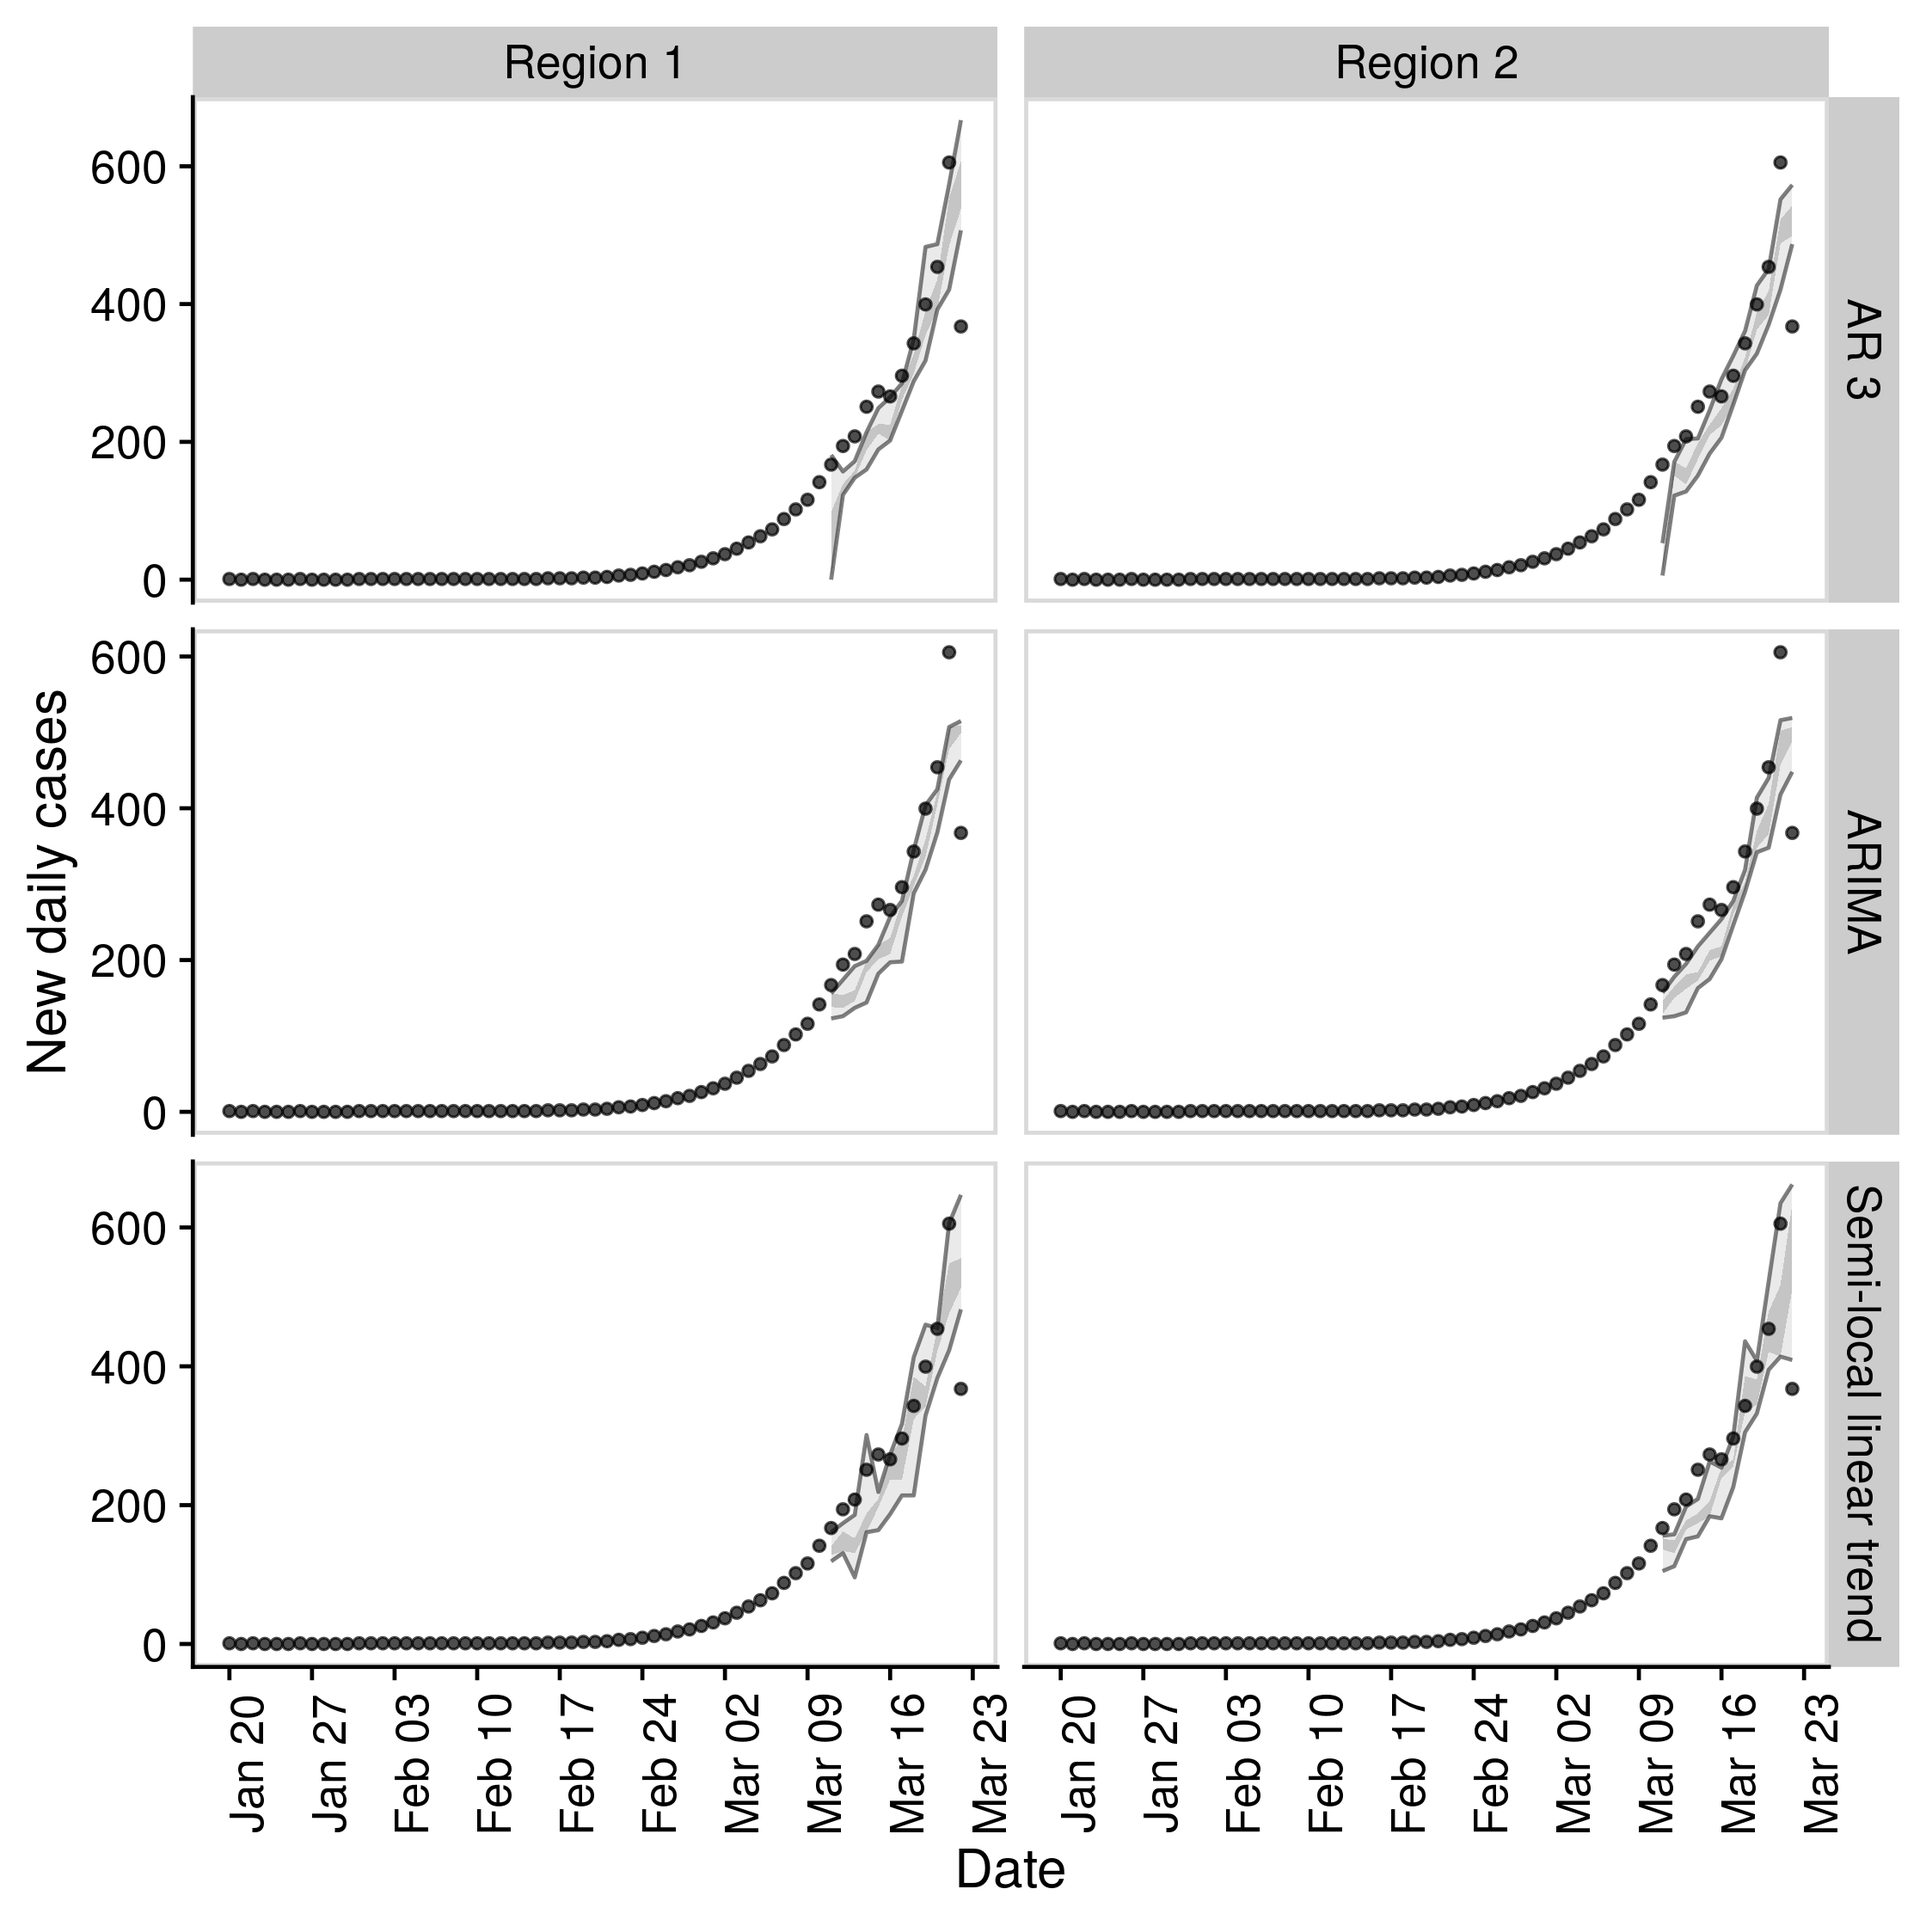
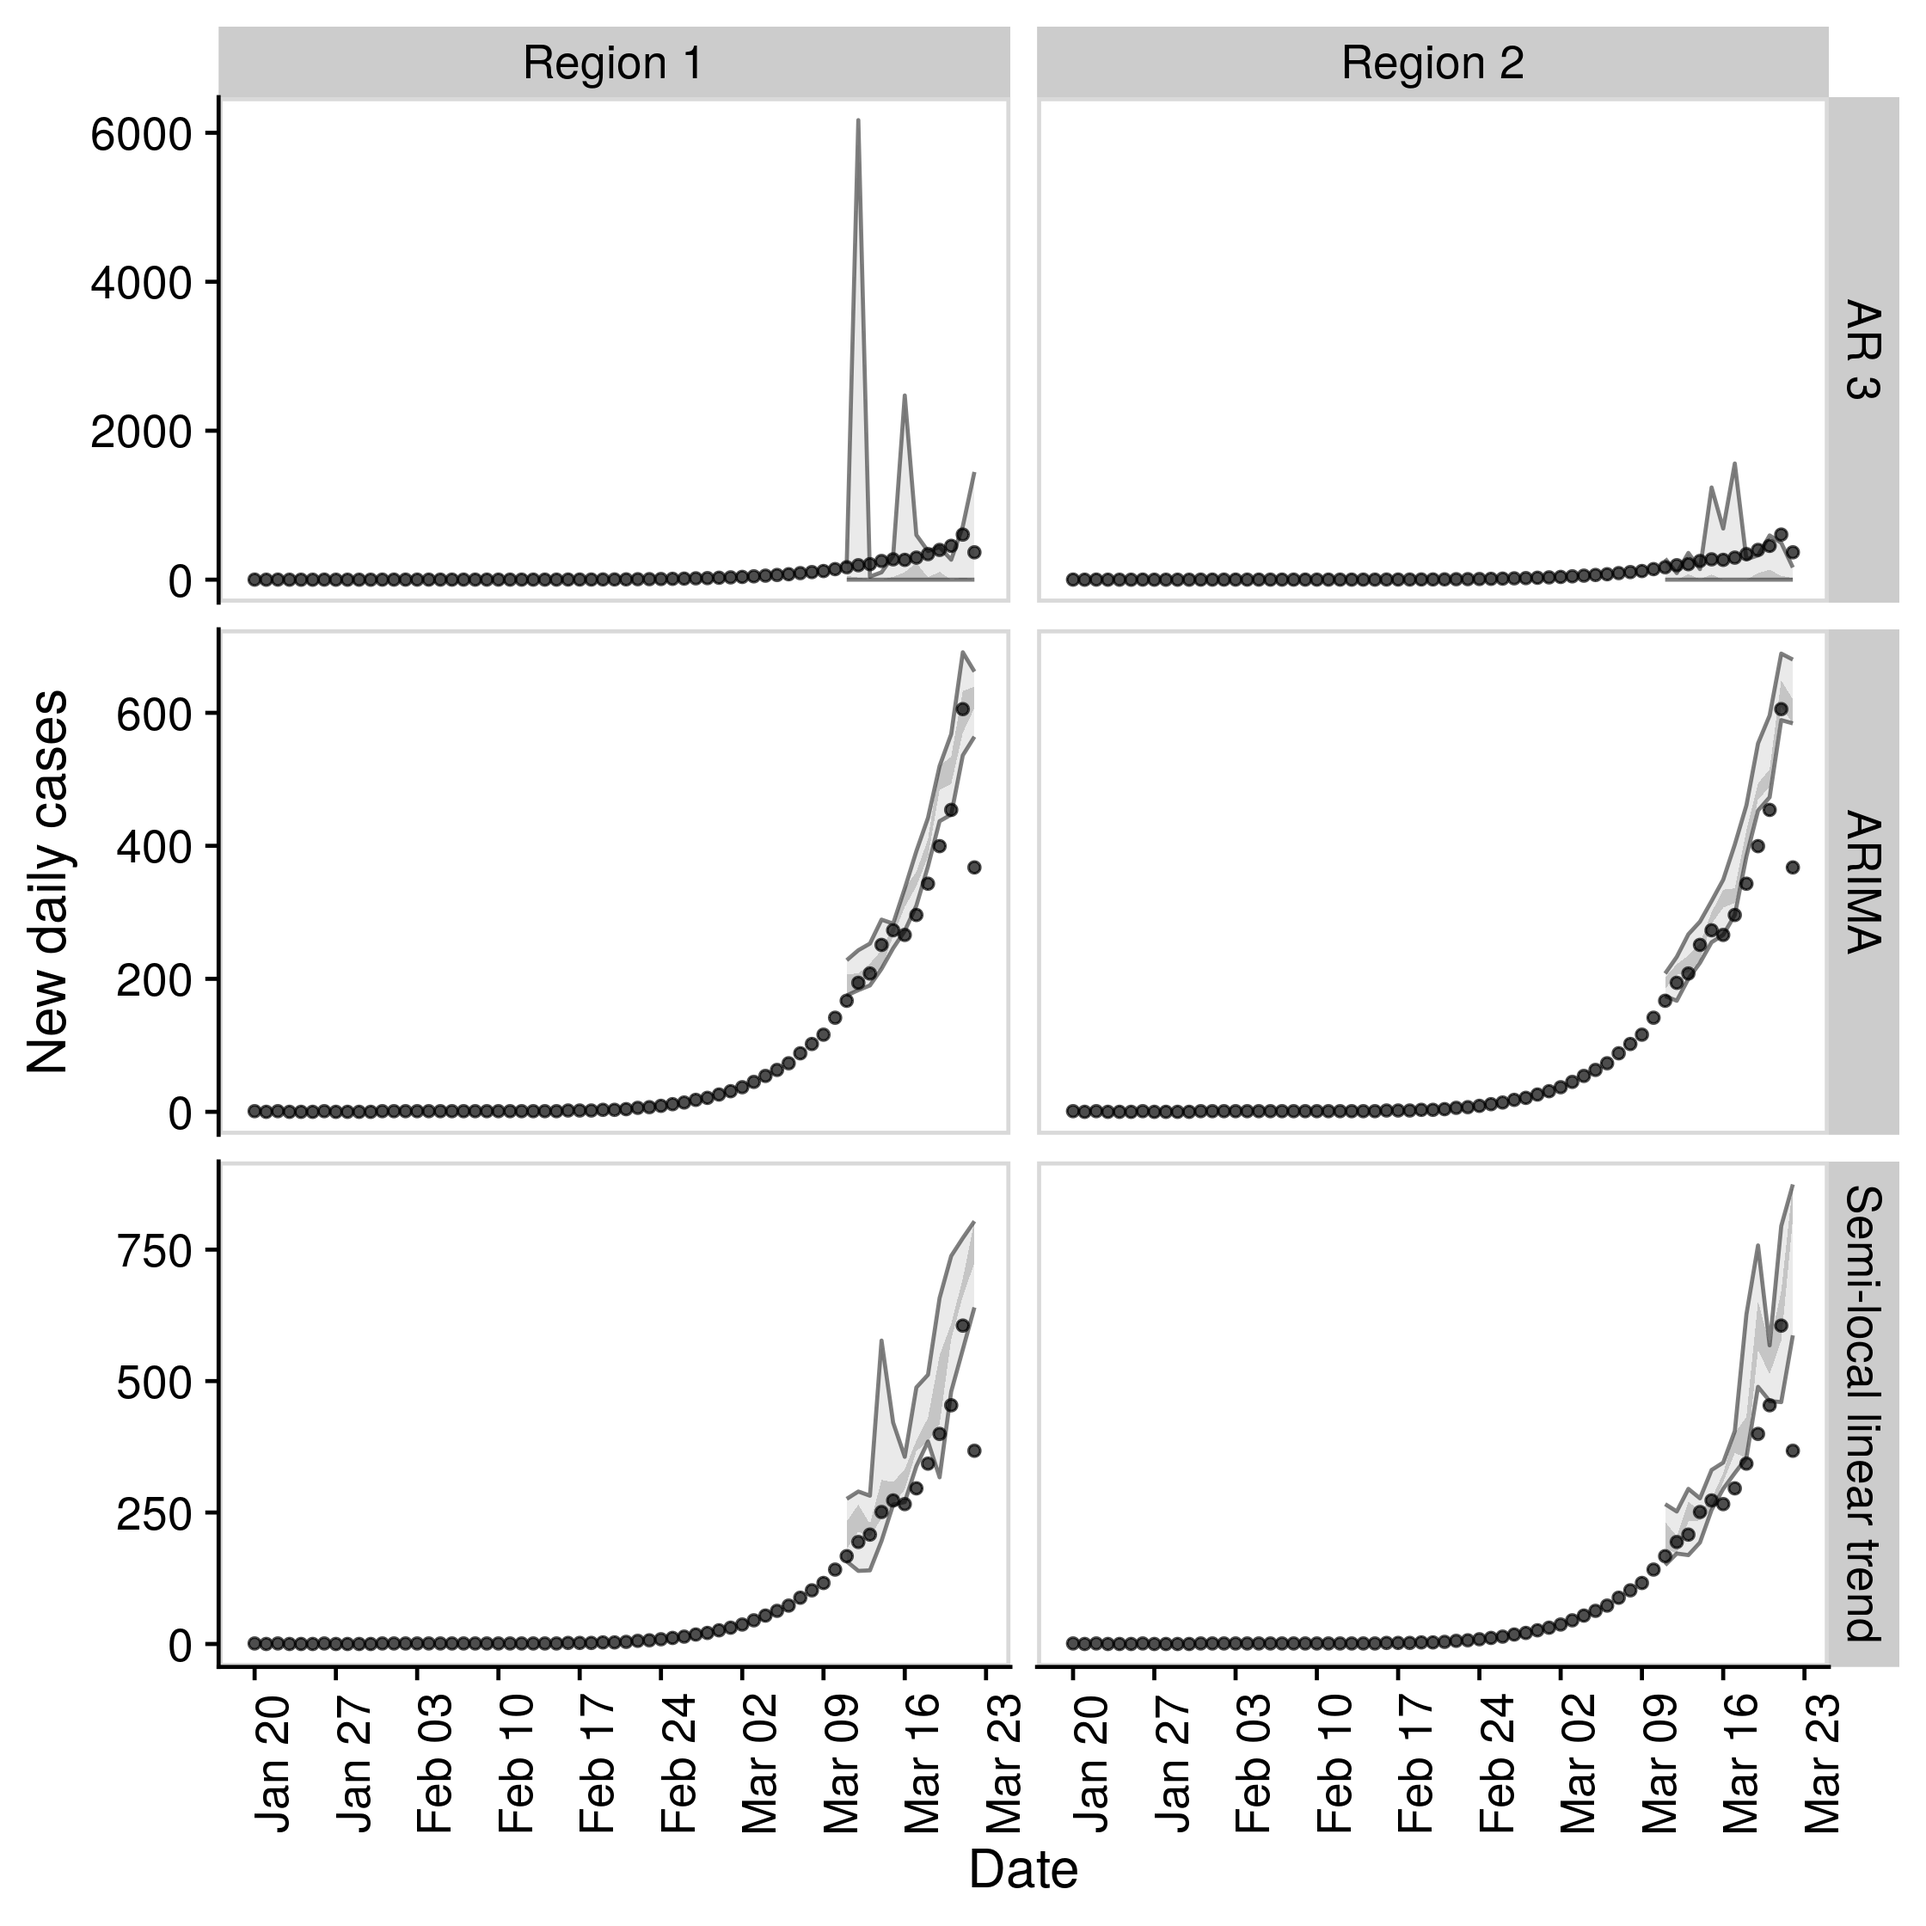
update readme

diff --git a/README.md b/README.md
@@ -2,14 +2,12 @@
 # EpiSoon
 
 [![DOI](https://zenodo.org/badge/248311916.svg)](https://zenodo.org/badge/latestdoi/248311916)
+[![R build
+status](https://github.com/epiforecasts/EpiSoon/workflows/R-CMD-check/badge.svg)](https://github.com/epiforecasts/EpiSoon)
 [![Build
 Status](https://travis-ci.com/epiforecasts/EpiSoon.svg?branch=master)](https://travis-ci.com/epiforecasts/EpiSoon)
 
-*Warning: This package is a work in progress and is currently developed
-solely with the COVID-19 outbreak in mind. Breaking changes may occur
-and the authors cannot guarantee support.*
-
-**Aim:** To forecast the time-varying reproduction number and using this
+**Aim:** To forecast the time-varying reproduction number and use this
 to forecast reported case counts.
 
 ## Installation
@@ -85,72 +83,72 @@ forecasts <- EpiSoon::compare_timeseries(obs_rts, obs_cases, models,
 
 forecasts
 #> $forecast_rts
-#> # A tibble: 784 x 12
-#>    timeseries model forecast_date date       horizon median  mean     sd
-#>    <chr>      <chr> <chr>         <date>       <int>  <dbl> <dbl>  <dbl>
-#>  1 Region 1   AR 3  2020-03-05    2020-03-06       1   2.20  2.20 0.0422
-#>  2 Region 1   AR 3  2020-03-05    2020-03-07       2   2.15  2.15 0.0382
-#>  3 Region 1   AR 3  2020-03-05    2020-03-08       3   2.09  2.08 0.0611
-#>  4 Region 1   AR 3  2020-03-05    2020-03-09       4   2.01  2.01 0.0541
-#>  5 Region 1   AR 3  2020-03-05    2020-03-10       5   1.95  1.95 0.0331
-#>  6 Region 1   AR 3  2020-03-05    2020-03-11       6   1.91  1.91 0.0444
-#>  7 Region 1   AR 3  2020-03-05    2020-03-12       7   1.85  1.85 0.0375
-#>  8 Region 1   AR 3  2020-03-06    2020-03-07       1   2.09  2.10 0.0364
-#>  9 Region 1   AR 3  2020-03-06    2020-03-08       2   2.02  2.02 0.0158
-#> 10 Region 1   AR 3  2020-03-06    2020-03-09       3   1.94  1.94 0.0261
-#> # … with 774 more rows, and 4 more variables: bottom <dbl>, lower <dbl>,
-#> #   upper <dbl>, top <dbl>
+#> # A tibble: 798 x 12
+#>    timeseries model forecast_date date       horizon median  mean    sd bottom
+#>    <chr>      <chr> <chr>         <date>       <int>  <dbl> <dbl> <dbl>  <dbl>
+#>  1 Region 1   AR 3  2020-03-04    2020-03-05       1  0     1.08  2.15       0
+#>  2 Region 1   AR 3  2020-03-04    2020-03-06       2  0.203 0.955 1.59       0
+#>  3 Region 1   AR 3  2020-03-04    2020-03-07       3  0.232 0.790 1.26       0
+#>  4 Region 1   AR 3  2020-03-04    2020-03-08       4  0.259 1.70  2.69       0
+#>  5 Region 1   AR 3  2020-03-04    2020-03-09       5  0.238 1.40  2.35       0
+#>  6 Region 1   AR 3  2020-03-04    2020-03-10       6  0.862 0.830 0.880      0
+#>  7 Region 1   AR 3  2020-03-04    2020-03-11       7  1.22  1.92  2.95       0
+#>  8 Region 1   AR 3  2020-03-05    2020-03-06       1  0.378 1.18  1.88       0
+#>  9 Region 1   AR 3  2020-03-05    2020-03-07       2  0.536 1.87  3.64       0
+#> 10 Region 1   AR 3  2020-03-05    2020-03-08       3  0.758 1.87  3.44       0
+#> # … with 788 more rows, and 3 more variables: lower <dbl>, upper <dbl>,
+#> #   top <dbl>
 #> 
 #> $rt_scores
-#> # A tibble: 616 x 14
-#>    timeseries model forecast_date date       horizon    dss    crps   logs
-#>    <chr>      <chr> <chr>         <date>       <int>  <dbl>   <dbl>  <dbl>
-#>  1 Region 1   AR 3  2020-03-05    2020-03-06       1 -6.43  0.00837 -2.50 
-#>  2 Region 1   AR 3  2020-03-05    2020-03-07       2 -6.61  0.00733 -2.74 
-#>  3 Region 1   AR 3  2020-03-05    2020-03-08       3 -5.44  0.0117  -2.43 
-#>  4 Region 1   AR 3  2020-03-05    2020-03-09       4 -5.16  0.0337   1.22 
-#>  5 Region 1   AR 3  2020-03-05    2020-03-10       5 -0.766 0.0601  -0.295
-#>  6 Region 1   AR 3  2020-03-05    2020-03-11       6  0.361 0.0853   0.418
-#>  7 Region 1   AR 3  2020-03-05    2020-03-12       7 10.5   0.128   15.8  
-#>  8 Region 1   AR 3  2020-03-06    2020-03-07       1 -4.82  0.0378   0.634
-#>  9 Region 1   AR 3  2020-03-06    2020-03-08       2 23.8   0.0774  25.4  
-#> 10 Region 1   AR 3  2020-03-06    2020-03-09       3 14.5   0.102    7.65 
-#> # … with 606 more rows, and 6 more variables: bias <dbl>, sharpness <dbl>,
+#> # A tibble: 630 x 14
+#>    timeseries model forecast_date date       horizon   dss  crps  logs   bias
+#>    <chr>      <chr> <chr>         <date>       <int> <dbl> <dbl> <dbl>  <dbl>
+#>  1 Region 1   AR 3  2020-03-04    2020-03-05       1  1.76 1.42  13.8  -0.6  
+#>  2 Region 1   AR 3  2020-03-04    2020-03-06       2  1.49 1.14   2.48 -0.8  
+#>  3 Region 1   AR 3  2020-03-04    2020-03-07       3  1.65 1.15   2.49 -0.8  
+#>  4 Region 1   AR 3  2020-03-04    2020-03-08       4  1.90 0.914  2.04 -0.400
+#>  5 Region 1   AR 3  2020-03-04    2020-03-09       5  1.70 0.999  2.45 -0.400
+#>  6 Region 1   AR 3  2020-03-04    2020-03-10       6  1.70 0.851  1.80 -0.8  
+#>  7 Region 1   AR 3  2020-03-04    2020-03-11       7  2.06 0.564  1.62 -0.400
+#>  8 Region 1   AR 3  2020-03-05    2020-03-06       1  1.48 1.18   6.29 -0.6  
+#>  9 Region 1   AR 3  2020-03-05    2020-03-07       2  2.48 1.00   2.29 -0.6  
+#> 10 Region 1   AR 3  2020-03-05    2020-03-08       3  2.37 0.779  1.75 -0.6  
+#> # … with 620 more rows, and 5 more variables: sharpness <dbl>,
 #> #   calibration <dbl>, median <dbl>, iqr <dbl>, ci <dbl>
 #> 
 #> $forecast_cases
-#> # A tibble: 616 x 12
-#>    timeseries model forecast_date date       horizon median  mean    sd
-#>    <chr>      <chr> <chr>         <date>       <int>  <dbl> <dbl> <dbl>
-#>  1 Region 1   AR 3  2020-03-05    2020-03-06       1   84    81.7 12.0 
-#>  2 Region 1   AR 3  2020-03-05    2020-03-07       2  101   101.   7.16
-#>  3 Region 1   AR 3  2020-03-05    2020-03-08       3  114.  114.  13.8 
-#>  4 Region 1   AR 3  2020-03-05    2020-03-09       4  130.  133.  17.5 
-#>  5 Region 1   AR 3  2020-03-05    2020-03-10       5  152   156.  18.0 
-#>  6 Region 1   AR 3  2020-03-05    2020-03-11       6  187   184   24.0 
-#>  7 Region 1   AR 3  2020-03-05    2020-03-12       7  202.  212.  33.1 
-#>  8 Region 1   AR 3  2020-03-06    2020-03-07       1   93    91.2  8.98
-#>  9 Region 1   AR 3  2020-03-06    2020-03-08       2   94.5  97.3  8.71
-#> 10 Region 1   AR 3  2020-03-06    2020-03-09       3  118   116.  10.7 
-#> # … with 606 more rows, and 4 more variables: bottom <dbl>, lower <dbl>,
-#> #   upper <dbl>, top <dbl>
+#> # A tibble: 630 x 12
+#>    timeseries model forecast_date date       horizon median  mean    sd bottom
+#>    <chr>      <chr> <chr>         <date>       <int>  <dbl> <dbl> <dbl>  <dbl>
+#>  1 Region 1   AR 3  2020-03-04    2020-03-05       1    0    32.3  66.2      0
+#>  2 Region 1   AR 3  2020-03-04    2020-03-06       2    7.5  36.3  62.3      0
+#>  3 Region 1   AR 3  2020-03-04    2020-03-07       3    6    33.9  70.3      0
+#>  4 Region 1   AR 3  2020-03-04    2020-03-08       4    6.5  60.3 129.       0
+#>  5 Region 1   AR 3  2020-03-04    2020-03-09       5    4.5  67.7 170.       0
+#>  6 Region 1   AR 3  2020-03-04    2020-03-10       6   16    38.7  50.0      0
+#>  7 Region 1   AR 3  2020-03-04    2020-03-11       7   38.5  53.9  64.1      0
+#>  8 Region 1   AR 3  2020-03-05    2020-03-06       1   13    46.4  74.3      0
+#>  9 Region 1   AR 3  2020-03-05    2020-03-07       2   17.5  88.6 178.       0
+#> 10 Region 1   AR 3  2020-03-05    2020-03-08       3   30.5  67.7 107.       0
+#> # … with 620 more rows, and 3 more variables: lower <dbl>, upper <dbl>,
+#> #   top <dbl>
 #> 
 #> $case_scores
-#> # A tibble: 616 x 15
-#>    timeseries model sample forecast_date date       horizon   dss  crps
-#>    <chr>      <chr> <chr>  <chr>         <date>       <int> <dbl> <dbl>
-#>  1 Region 1   AR 3  1      2020-03-05    2020-03-06       1  5.45  6.13
-#>  2 Region 1   AR 3  1      2020-03-05    2020-03-07       2  7.38  8.96
-#>  3 Region 1   AR 3  1      2020-03-05    2020-03-08       3  5.96  7.5 
-#>  4 Region 1   AR 3  1      2020-03-05    2020-03-09       4  6.69  9.02
-#>  5 Region 1   AR 3  1      2020-03-05    2020-03-10       5  6.41  7.77
-#>  6 Region 1   AR 3  1      2020-03-05    2020-03-11       6  6.81 12.4 
-#>  7 Region 1   AR 3  1      2020-03-05    2020-03-12       7  7.21  7.99
-#>  8 Region 1   AR 3  1      2020-03-06    2020-03-07       1  4.43  2.98
-#>  9 Region 1   AR 3  1      2020-03-06    2020-03-08       2  4.55  3.51
-#> 10 Region 1   AR 3  1      2020-03-06    2020-03-09       3  4.64  2.86
-#> # … with 606 more rows, and 7 more variables: logs <dbl>, bias <dbl>,
-#> #   sharpness <dbl>, calibration <dbl>, median <dbl>, iqr <dbl>, ci <dbl>
+#> # A tibble: 630 x 15
+#>    timeseries model sample forecast_date date       horizon   dss  crps  logs
+#>    <chr>      <chr> <chr>  <chr>         <date>       <int> <dbl> <dbl> <dbl>
+#>  1 Region 1   AR 3  1      2020-03-04    2020-03-05       1  8.52  40.8 35.8 
+#>  2 Region 1   AR 3  1      2020-03-04    2020-03-06       2  8.54  36.3  5.79
+#>  3 Region 1   AR 3  1      2020-03-04    2020-03-07       3  9.06  55.9  8.89
+#>  4 Region 1   AR 3  1      2020-03-04    2020-03-08       4  9.74  58.9  6.74
+#>  5 Region 1   AR 3  1      2020-03-04    2020-03-09       5 10.3   77.9 10.3 
+#>  6 Region 1   AR 3  1      2020-03-04    2020-03-10       6 12.4   78.2  6.29
+#>  7 Region 1   AR 3  1      2020-03-04    2020-03-11       7 11.7   91.1  7.27
+#>  8 Region 1   AR 3  1      2020-03-05    2020-03-06       1  8.65  38.1  7.27
+#>  9 Region 1   AR 3  1      2020-03-05    2020-03-07       2 10.3   43.1  6.13
+#> 10 Region 1   AR 3  1      2020-03-05    2020-03-08       3  9.36  38.6  5.66
+#> # … with 620 more rows, and 6 more variables: bias <dbl>, sharpness <dbl>,
+#> #   calibration <dbl>, median <dbl>, iqr <dbl>, ci <dbl>
 ```
 
   - Plot an evaluation of Rt forecasts using iterative
@@ -186,18 +184,18 @@ EpiSoon::plot_forecast_evaluation(forecasts$forecast_cases, obs_cases, c(7)) +
 ``` r
 EpiSoon::summarise_scores(forecasts$case_scores)
 #> # A tibble: 27 x 9
-#>    score  model      bottom   lower  median    mean   upper     top      sd
-#>    <chr>  <chr>       <dbl>   <dbl>   <dbl>   <dbl>   <dbl>   <dbl>   <dbl>
-#>  1 bias   AR 3     -1.00e+0 1.00e-1 7.00e-1 4.81e-1 1.00e+0 1.00e+0 6.01e-1
-#>  2 bias   ARIMA    -1.00e+0 2.00e-1 8.00e-1 5.37e-1 1.00e+0 1.00e+0 5.79e-1
-#>  3 bias   Semi-l…  -1.00e+0 2.00e-1 6.00e-1 4.87e-1 1.00e+0 1.00e+0 5.79e-1
-#>  4 calib… AR 3      8.57e-5 8.57e-5 8.57e-5 2.83e-2 1.20e-4 3.16e-1 8.06e-2
-#>  5 calib… ARIMA     8.57e-5 8.57e-5 8.57e-5 3.80e-2 2.00e-4 4.12e-1 9.34e-2
-#>  6 calib… Semi-l…   8.57e-5 8.57e-5 9.29e-5 7.22e-2 6.04e-3 9.11e-1 2.01e-1
-#>  7 ci     AR 3      2.64e+1 5.07e+1 9.99e+1 1.18e+3 2.05e+3 6.79e+3 1.94e+3
-#>  8 ci     ARIMA     2.25e+1 4.55e+1 9.51e+1 1.09e+3 2.02e+3 6.14e+3 1.77e+3
-#>  9 ci     Semi-l…   2.61e+1 5.30e+1 9.60e+1 1.07e+3 1.76e+3 5.29e+3 1.71e+3
-#> 10 crps   AR 3      2.84e+0 6.37e+0 1.66e+1 4.55e+1 7.54e+1 2.03e+2 5.76e+1
+#>    score  model      bottom    lower   median     mean    upper      top      sd
+#>    <chr>  <chr>       <dbl>    <dbl>    <dbl>    <dbl>    <dbl>    <dbl>   <dbl>
+#>  1 bias   AR 3     -1.00e+0 -8.75e-1 -8.00e-1 -6.94e-1 -6.00e-1   -0.200 2.65e-1
+#>  2 bias   ARIMA    -1.00e+0  2.00e-1  8.00e-1  5.33e-1  1.00e+0    1     5.70e-1
+#>  3 bias   Semi-l…  -1.00e+0  3.00e-1  8.00e-1  5.37e-1  1.00e+0    1     5.63e-1
+#>  4 calib… AR 3      8.57e-5  8.57e-5  8.57e-5  2.83e-2  2.00e-3    0.504 1.26e-1
+#>  5 calib… ARIMA     8.57e-5  8.57e-5  8.57e-5  3.59e-2  1.50e-4    0.509 1.15e-1
+#>  6 calib… Semi-l…   8.57e-5  8.57e-5  8.57e-5  4.30e-2  1.50e-4    0.587 1.28e-1
+#>  7 ci     AR 3      1.41e+2  3.76e+2  6.91e+2  1.60e+3  1.63e+3 8488.    2.28e+3
+#>  8 ci     ARIMA     2.28e+1  4.62e+1  8.40e+1  1.04e+3  1.57e+3 6341.    1.72e+3
+#>  9 ci     Semi-l…   2.51e+1  5.67e+1  1.26e+2  1.05e+3  1.62e+3 5913.    1.75e+3
+#> 10 crps   AR 3      3.63e+1  9.19e+1  1.40e+2  1.58e+2  2.00e+2  429.    9.54e+1
 #> # … with 17 more rows
 ```
 
